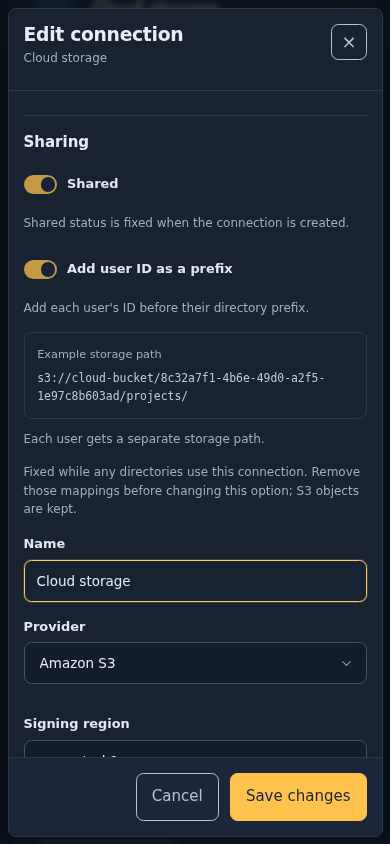
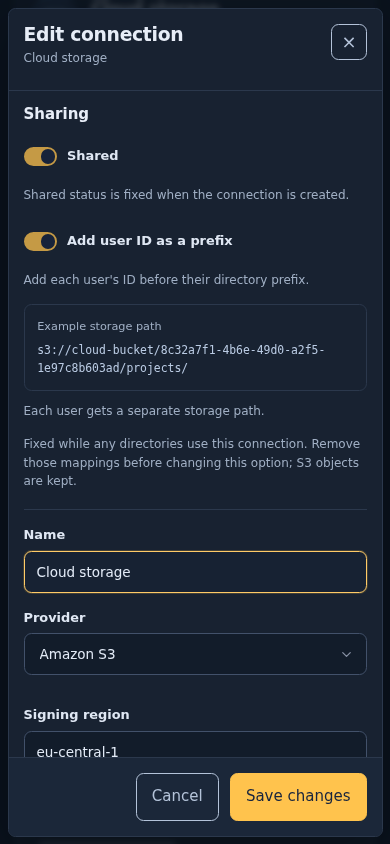
Move Sharing divider below connection controls

Changed region(s): [[0.0615, 0.1232, 0.9538, 0.8009], [0.0615, 0.8318, 0.3385, 0.8934], [0.8615, 0.7701, 0.8923, 0.8009]]

diff --git a/internal/web/templates.html b/internal/web/templates.html
@@ -145,7 +145,7 @@
 <form class="connection-form" data-connection-form method="post" action="{{if .ID}}/connections/{{.ID}}/update{{else}}/connections{{end}}" hx-post="{{if .ID}}/connections/{{.ID}}/update{{else}}/connections{{end}}" hx-target="#connection-feedback" hx-disabled-elt="find button[type=submit]">
 <input type="hidden" name="revision" value="{{.Revision}}">
 <div class="form-fields">
-{{if $.Admin}}<section class="field-section" aria-labelledby="connection-sharing-title"><h3 id="connection-sharing-title">Sharing</h3>
+{{if $.Admin}}<section class="field-section connection-sharing" aria-labelledby="connection-sharing-title"><h3 id="connection-sharing-title">Sharing</h3>
 <label><input id="connection-shared" name="shared" type="checkbox" role="switch" {{if .Shared}}checked{{end}} {{if .ID}}disabled{{end}} aria-describedby="connection-sharing-help"> Shared</label>
 <small id="connection-sharing-help">{{if .ID}}Shared status is fixed when the connection is created.{{else}}Make this connection available to all users. Only administrators can manage it. This choice is fixed after creation.{{end}}</small>
 {{if or .Shared (not .ID)}}<div data-shared-options {{if not .Shared}}hidden{{end}}>

diff --git a/internal/web/static/storage-connections.css b/internal/web/static/storage-connections.css
@@ -18,6 +18,7 @@
 .connection-form .two-column-form { gap: 1rem; }
 .connection-form label:has([role="switch"]) { margin-bottom: 1rem; }
 .connection-form .field-section { border: 0; border-top: 1px solid var(--pico-muted-border-color); margin: .6rem 0 1rem; padding: 1.2rem 0 0; }
+.connection-form .connection-sharing { border-top: 0; border-bottom: 1px solid var(--pico-muted-border-color); margin-top: 0; padding: 0 0 .2rem; }
 .connection-form h3 { margin-bottom: .7rem; }
 .connection-form .credential-hint { margin: 0 0 1rem; font-size: .8rem; color: var(--pico-muted-color); }
 .form-actions { display: flex; align-items: center; justify-content: flex-end; flex-wrap: wrap; gap: .75rem; }

diff --git a/docs/mockups/shared-connections.css b/docs/mockups/shared-connections.css
@@ -11,6 +11,7 @@
 .personal-card h3 { margin: 0 0 .5rem; }
 .personal-card p,.personal-card button { margin: 0; }
 .sharing-settings [hidden] { display: none; }
+.connection-form .sharing-settings { border-top: 0; border-bottom: 1px solid var(--pico-muted-border-color); margin-top: 0; padding: 0 0 .2rem; }
 .sharing-settings input[disabled] { opacity: .75; }
 #add-connection { display: inline-flex; }
 #add-connection button { margin: 0; }
